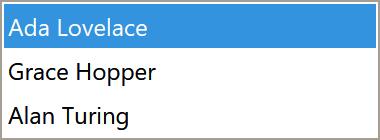
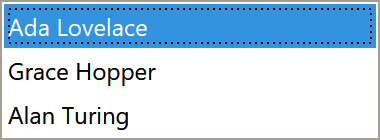
Write the GridSplitter styles page
The page was a "coming soon" placeholder. The style is the smallest so far
- five setters, no template - but two of them change behaviour rather than
looks, and both were measured rather than recalled: a GridSplitter with
Style = null falls back to the WPF theme style, so the two can be compared
directly.

  WPF default  HorizontalAlignment=Right    ShowsPreview=False
  MahApps      HorizontalAlignment=Stretch  ShowsPreview=True

The alignment is the one that catches people. ResizeDirection defaults to
Auto, which WPF resolves from the alignments first - a non-stretched
horizontal one means columns, a non-stretched vertical one means rows.
Stretching both means neither test applies and WPF falls through to
comparing the rendered size, so the splitter needs a Width between columns
or a Height between rows. Code that worked without one under the plain WPF
style needs one here.

ShowsPreview being on means the panes jump on release rather than
following the pointer, with a translucent bar in between.

Two figures.

Changed region(s): [[0.0289, 0.2857, 0.9842, 0.3143], [0.0289, 0.0571, 0.9842, 0.0857]]

diff --git a/screenshots/StyleShots/Program.cs b/screenshots/StyleShots/Program.cs
@@ -47,6 +47,7 @@ namespace StyleShots
                     try
                     {
                         LoadCalendarStyles();
+                        await GridSplitterFiguresAsync();
                         await GroupBoxFiguresAsync();
                         await ExpanderFiguresAsync();
                         await DataGridFiguresAsync();
@@ -516,6 +517,67 @@ namespace StyleShots
                 <ResourceDictionary Source=""pack://application:,,,/MahApps.Metro;component/Styles/VS/Colors.xaml"" />
               </ResourceDictionary.MergedDictionaries>
             </ResourceDictionary>";
+
+        private static async Task GridSplitterFiguresAsync()
+        {
+            await CaptureAsync("styles", "gridsplitter-directions",
+                Showcase(
+                    ("between columns, Width set", Xaml(@"
+                        <Grid Width=""260"" Height=""110"">
+                          <Grid.ColumnDefinitions>
+                            <ColumnDefinition Width=""*"" />
+                            <ColumnDefinition Width=""Auto"" />
+                            <ColumnDefinition Width=""*"" />
+                          </Grid.ColumnDefinitions>
+                          <Border Background=""{DynamicResource MahApps.Brushes.Gray10}"">
+                            <TextBlock Margin=""10"" VerticalAlignment=""Center"" Text=""left"" />
+                          </Border>
+                          <GridSplitter Grid.Column=""1"" Width=""4"" />
+                          <Border Grid.Column=""2"" Background=""{DynamicResource MahApps.Brushes.Gray10}"">
+                            <TextBlock Margin=""10"" VerticalAlignment=""Center"" Text=""right"" />
+                          </Border>
+                        </Grid>")),
+                    ("between rows, Height set", Xaml(@"
+                        <Grid Width=""200"" Height=""130"">
+                          <Grid.RowDefinitions>
+                            <RowDefinition Height=""*"" />
+                            <RowDefinition Height=""Auto"" />
+                            <RowDefinition Height=""*"" />
+                          </Grid.RowDefinitions>
+                          <Border Background=""{DynamicResource MahApps.Brushes.Gray10}"">
+                            <TextBlock Margin=""10"" VerticalAlignment=""Center"" Text=""top"" />
+                          </Border>
+                          <GridSplitter Grid.Row=""1"" Height=""4"" />
+                          <Border Grid.Row=""2"" Background=""{DynamicResource MahApps.Brushes.Gray10}"">
+                            <TextBlock Margin=""10"" VerticalAlignment=""Center"" Text=""bottom"" />
+                          </Border>
+                        </Grid>"))));
+
+            await CaptureAsync("styles", "gridsplitter-look",
+                Showcase(
+                    ("default, 4 wide", Xaml(@"
+                        <Grid Width=""220"" Height=""90"">
+                          <Grid.ColumnDefinitions>
+                            <ColumnDefinition Width=""*"" />
+                            <ColumnDefinition Width=""Auto"" />
+                            <ColumnDefinition Width=""*"" />
+                          </Grid.ColumnDefinitions>
+                          <Border Background=""{DynamicResource MahApps.Brushes.Gray10}"" />
+                          <GridSplitter Grid.Column=""1"" Width=""4"" />
+                          <Border Grid.Column=""2"" Background=""{DynamicResource MahApps.Brushes.Gray10}"" />
+                        </Grid>")),
+                    ("wider and recoloured", Xaml(@"
+                        <Grid Width=""220"" Height=""90"">
+                          <Grid.ColumnDefinitions>
+                            <ColumnDefinition Width=""*"" />
+                            <ColumnDefinition Width=""Auto"" />
+                            <ColumnDefinition Width=""*"" />
+                          </Grid.ColumnDefinitions>
+                          <Border Background=""{DynamicResource MahApps.Brushes.Gray10}"" />
+                          <GridSplitter Grid.Column=""1"" Width=""10"" Background=""{DynamicResource MahApps.Brushes.Accent}"" />
+                          <Border Grid.Column=""2"" Background=""{DynamicResource MahApps.Brushes.Gray10}"" />
+                        </Grid>"))));
+        }
 
         private static async Task GroupBoxFiguresAsync()
         {

diff --git a/input/docs/styles/gridsplitter.md b/input/docs/styles/gridsplitter.md
@@ -1,5 +1,75 @@
 Title: GridSplitter
-Description: The GridSplitter style
+Description: The GridSplitter styles
 ---
 
-_coming soon_
+`GridSplitter` is the bar a user drags to resize two panes of a `Grid`. MahApps keeps WPF's template and changes four things: the colour, both alignments, and — a behavioural one — the drag preview.
+
+![A splitter between two columns and between two rows](images/gridsplitter-directions.png)
+
+## The implicit style
+
+`Styles/Controls.xaml` applies `MahApps.Styles.GridSplitter` to every `GridSplitter`. Merging that dictionary — which the [quick start](../guides/quick-start) does — is all it takes:
+
+```xml
+<ResourceDictionary Source="pack://application:,,,/MahApps.Metro;component/Styles/Controls.xaml" />
+```
+
+There is no second style. The whole thing is five setters:
+
+| Property | Set to | |
+| --- | --- | --- |
+| `Background` | `MahApps.Brushes.Gray8` | the bar itself; WPF's default is a system brush |
+| `HorizontalAlignment` | `Stretch` | |
+| `VerticalAlignment` | `Stretch` | |
+| `ShowsPreview` | `True` | drag shows a ghost bar and resizes on release |
+| `PreviewStyle` | `MahApps.Styles.GridSplitter.Preview` | what that ghost bar looks like |
+
+## Give it a Width or a Height
+
+:::{.alert .alert-warning}
+This is the one that catches people. `GridSplitter.ResizeDirection` defaults to `Auto`, and WPF resolves that by looking first at the alignments: a non-stretched `HorizontalAlignment` means it resizes columns, a non-stretched `VerticalAlignment` means rows. **MahApps sets both to `Stretch`**, so neither test applies and WPF falls through to comparing the rendered size — columns if it is taller than wide, rows otherwise.
+
+That works out only if you give the splitter a size. Set `Width` for a splitter between columns and `Height` for one between rows, as both figures here do, or set `ResizeDirection` explicitly.
+:::
+
+```xml
+<Grid>
+    <Grid.ColumnDefinitions>
+        <ColumnDefinition Width="*" />
+        <ColumnDefinition Width="Auto" />
+        <ColumnDefinition Width="*" />
+    </Grid.ColumnDefinitions>
+
+    <Border Grid.Column="0" />
+    <GridSplitter Grid.Column="1" Width="4" />
+    <Border Grid.Column="2" />
+</Grid>
+```
+
+Note the `Auto` column the splitter sits in: giving the splitter its own definition rather than overlaying it on a pane keeps the two panes from resizing under it.
+
+WPF's own default style sets `HorizontalAlignment` to `Right`, so a splitter that resized columns without a `Width` under the plain WPF style needs one under this style.
+
+## The drag preview
+
+`ShowsPreview` is `True` here where WPF defaults it to `False`. The difference is when the panes move: with the preview on, dragging shows a translucent bar and the panes jump to the new sizes when the mouse is released; with it off, they follow the pointer live.
+
+`MahApps.Styles.GridSplitter.Preview` is what that bar looks like — a rectangle in the theme foreground at half opacity. Both are ordinary properties, so either can be changed:
+
+```xml
+<GridSplitter Width="4" ShowsPreview="False" />
+```
+
+## Changing the look
+
+There is no template to replace: the bar is just the control's `Background`, and its thickness is the `Width` or `Height` you gave it.
+
+![The default bar and a wider, accent-coloured one](images/gridsplitter-look.png)
+
+```xml
+<GridSplitter Grid.Column="1"
+              Width="10"
+              Background="{DynamicResource MahApps.Brushes.Accent}" />
+```
+
+A wider bar is easier to grab. If you want a slim line that is still easy to hit, keep the `Width` generous and draw the line with a `Border` inside a template of your own rather than making the control itself thin.
